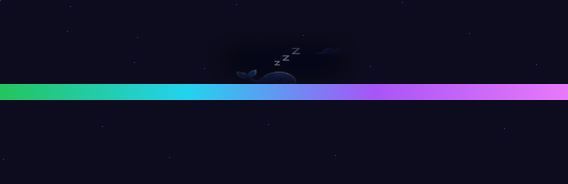
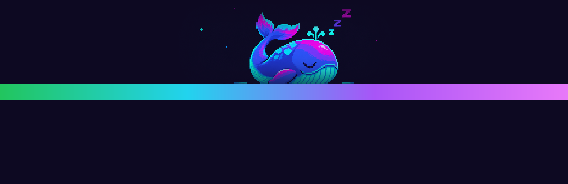
feat: pixel-art Kunpeng pack generated with GPT Image
- four 2172x724 pixel-art frames (sleeping whale / swimming / sprouting
  wings / full kunpeng) generated with GPT Image, cropped and composited to
  the panel canvas 568x184 with the creature above the track line at y=92
- assets installed in lib/assets/kunpeng/, served by the host route
  /plugins/<pkg>/assets/kunpeng/<level>.png (200 for all four)
- the art painter now draws with imageSmoothingEnabled = false so the pixel
  blocks stay crisp on 1x displays
- README stills regenerated from the new art; asset README documents the
  568x184 / y=92 contract
- local only: no push, no release

Changed region(s): [[0.419, 0.0815, 0.6285, 0.462], [0.5986, 0.0272, 0.6285, 0.1087]]

diff --git a/lib/client.js b/lib/client.js
@@ -686,7 +686,8 @@ window.__ModuleLoader__.load({
 
 				const image = art.get(levelName)
 				context.save()
-				context.imageSmoothingEnabled = true
+				// The pack is pixel art: keep the blocks crisp on 1x displays.
+				context.imageSmoothingEnabled = false
 				// The pack is authored at 2x the canvas (568 x 184), so it is drawn
 				// straight to the canvas box; a slow drift keeps it from looking frozen.
 				const drift = Math.sin(state.time * 0.35) * 2.5

diff --git a/README.md b/README.md
@@ -10,12 +10,12 @@
 
 *上面的 GIF 是 **粒子波动特效**：点开强度 chip → 滑条浮层，档位越高小球撞得越凶、频谱呼吸越深。*
 
-默认特效是 **鲲鹏动效 · 插画版**：四张插画随档位切换（鲸鱼沉睡 → 抬头溅水 → 生翼 → 展翼腾云），带交叉淡入与缓慢漂移；缺图时自动回退到程序化绘制：
+默认特效是 **鲲鹏动效 · 插画版**：四张**像素风**图随档位切换（鲸鱼沉睡 → 前游溅水 → 生翼 → 展翼腾云），由 GPT Image 生成，带交叉淡入与缓慢漂移；缺图时自动回退到程序化绘制：
 
 | off | high | max |
 | --- | --- | --- |
 | ![off](docs/kunpeng-off.png) | ![high](docs/kunpeng-high.png) | ![max](docs/kunpeng-max.png) |
-| 鲸鱼沉睡/游动 | 长翼、离开水面 | 展翼腾云，翼展最大 |
+| 像素鲸鱼沉睡（Z 气泡） | 生翼离水 | 像素鲲鹏展翼腾云 |
 
 ![改前改后](docs/before-after.png)
 
@@ -92,7 +92,7 @@ node scripts/uninstall.mjs                      # 只删链接与两条 profile 
 | 特效 | id | 说明 |
 | --- | --- | --- |
 | 粒子波动特效 | `particle-wave` | 小球在鼓面上弹跳碰撞。off 为 0 颗，第二档 6 颗；档位越高数量越多、重力越大、初速越快、弹性越强，所以碰撞是物理算出来的，不是写死的概率 |
-| 鲲鹏动效 · 插画版（默认） | `kunpeng-art` | 四张 568×184 插画随档位切换，交叉淡入 + 漂移；缺图自动回退 |
+| 鲲鹏动效 · 插画版（默认） | `kunpeng-art` | 四张 568×184 像素图随档位切换，交叉淡入 + 漂移；缺图自动回退 |
 | 鲲鹏动效 · 程序化 | `kunpeng` | 纯 canvas 绘制的霓虹鲸鱼，无需任何素材 |
 
 > 还想要别的动效？**[动效 × 著名 IP × 推理强度设计总目录](docs/effects-catalog.md)** 收录了 12 类 74 条可插拔动效、9 类 48 条 IP 母题，以及每条在 DSH 里的落地方式与档位映射。

diff --git a/lib/assets/kunpeng/README.md b/lib/assets/kunpeng/README.md
@@ -1,19 +1,19 @@
 # 鲲鹏插画素材位
 
-把四张**同风格、同构图**的横版插画放这里，文件名固定：
+四张 **像素风** 横版图，随档位切换。当前这组由 **GPT Image** 生成（2172×724 原图 → 裁切缩放到 568×184）。
 
 | 文件 | 档位 | 画面 |
 | --- | --- | --- |
-| `off.png` | off | 小鲸鱼在水中游动，微弱水波 |
-| `low.png` | low | 鲸鱼抬头，水花溅起 |
-| `high.png` | high | 长出羽翼，离开水面 |
-| `max.png` | max | 展翼腾云，最大翼展 |
+| `off.png` | off | 小鲸鱼闭眼沉睡，Z 字气泡，水面 |
+| `low.png` | low | 鲸鱼醒来前游，溅起水花 |
+| `high.png` | high | 背上长出羽翼，开始离水 |
+| `max.png` | max | 完全鲲鹏：展翼腾云，品红翼尖 |
 
-要求：
+规格：
 
-- **横版**，推荐 **568 × 184**（面板 canvas 的 2 倍），比例约 3.09:1
-- 深色背景（接近 #12141a），主体居中，四周留 8–12px 安全边距
-- 四张的机位、光照、调色保持连续，只有角色形态与档位色变化
-- PNG，不需要透明通道（面板背景本来就是深色）
+- **568 × 184**，`device y=92` 是轨道线，主体必须画在它**上方**（否则被滑条横穿）
+- 深色背景（≈ #0d0a22），主体居中，左右留白
+- 像素块边缘锐利，不要抗锯齿；四张机位与配色连续
+- 缺任意一张会自动回退到程序化绘制（`kunpeng`），不会白屏
 
-放好后切到「鲲鹏动效 · 插画版」特效即可；缺图时会自动回退到程序化绘制，不会白屏。
+替换素材时保持同名同尺寸即可，代码不用改。
